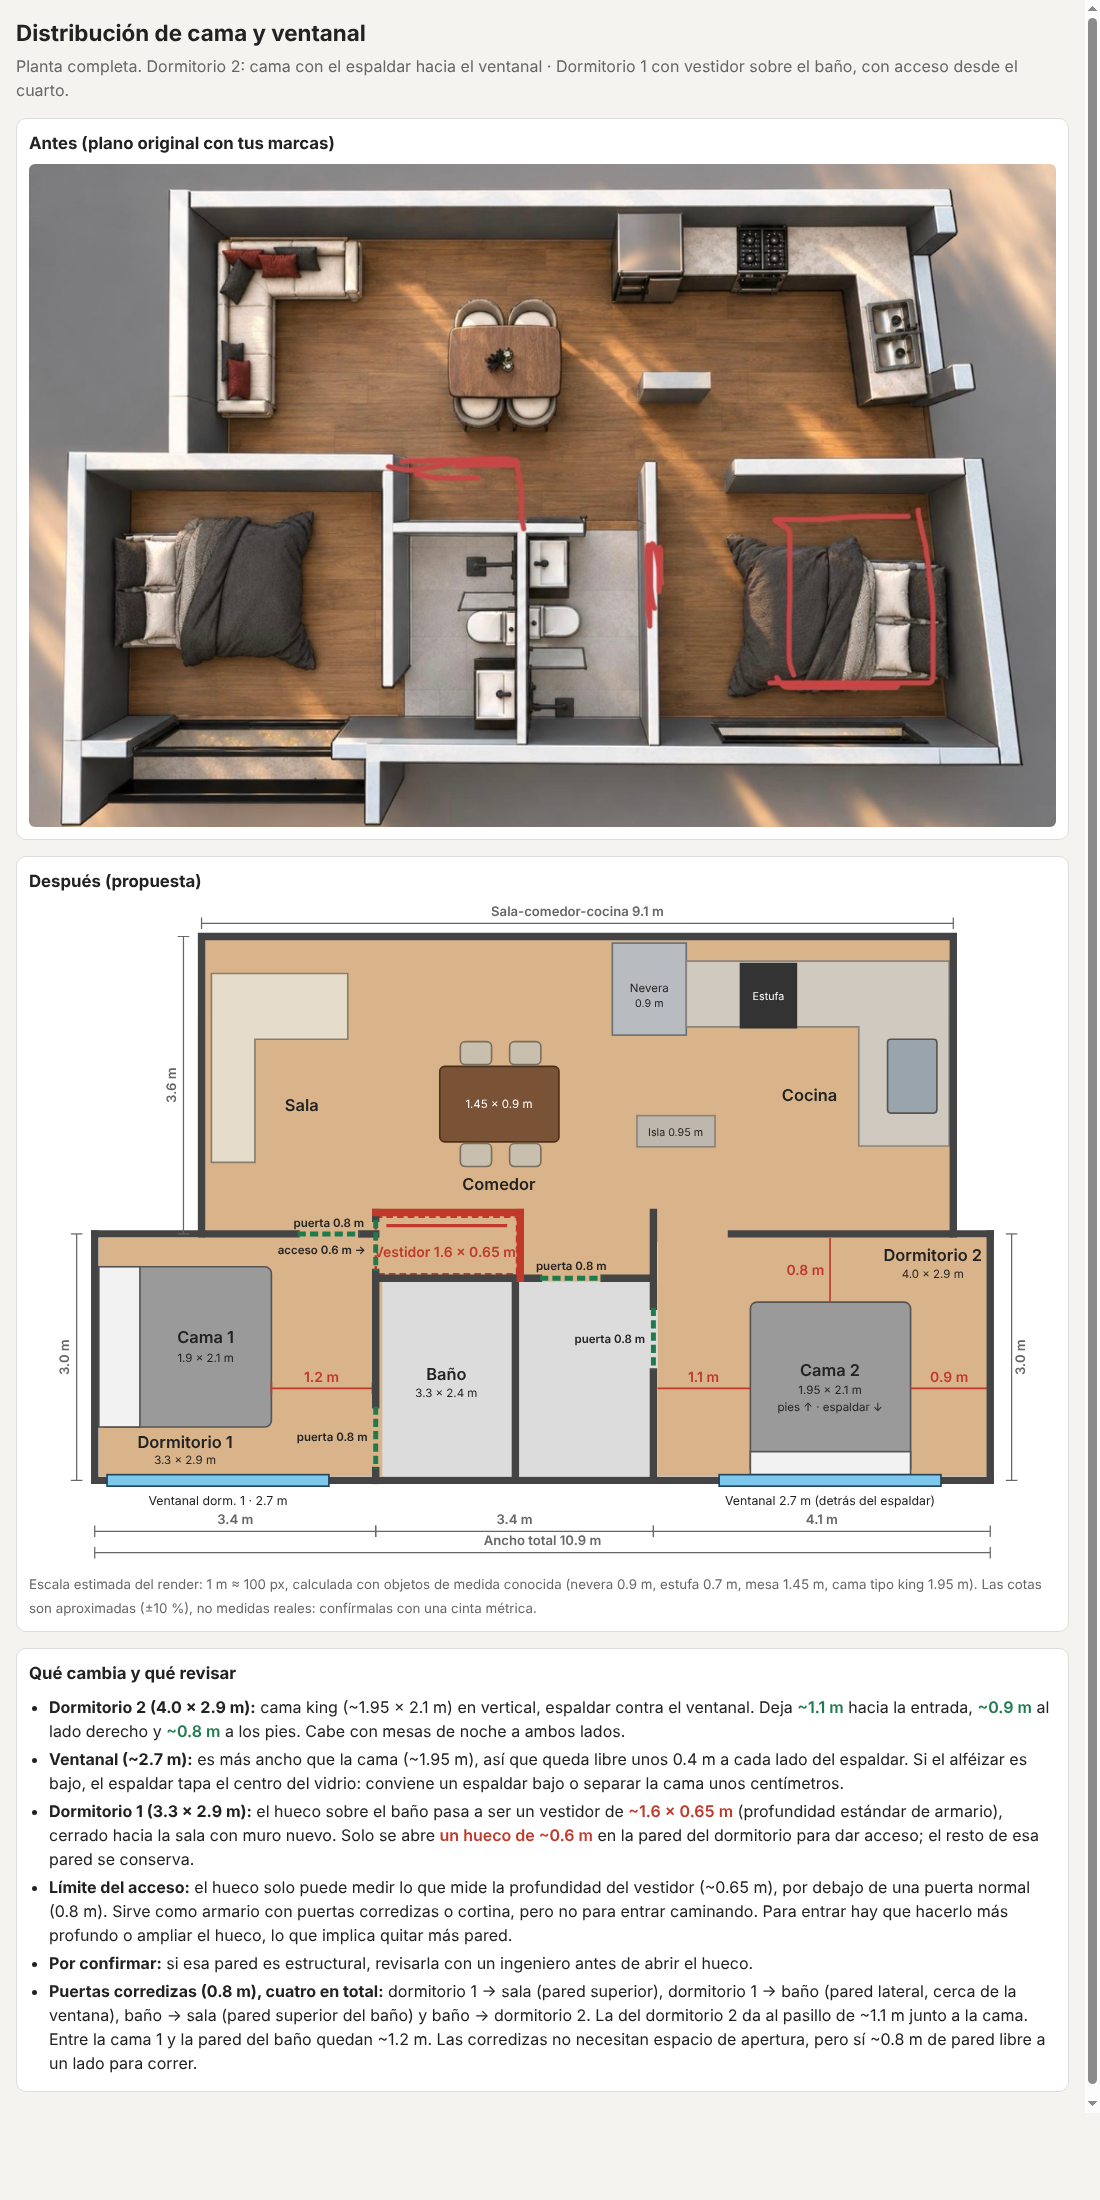
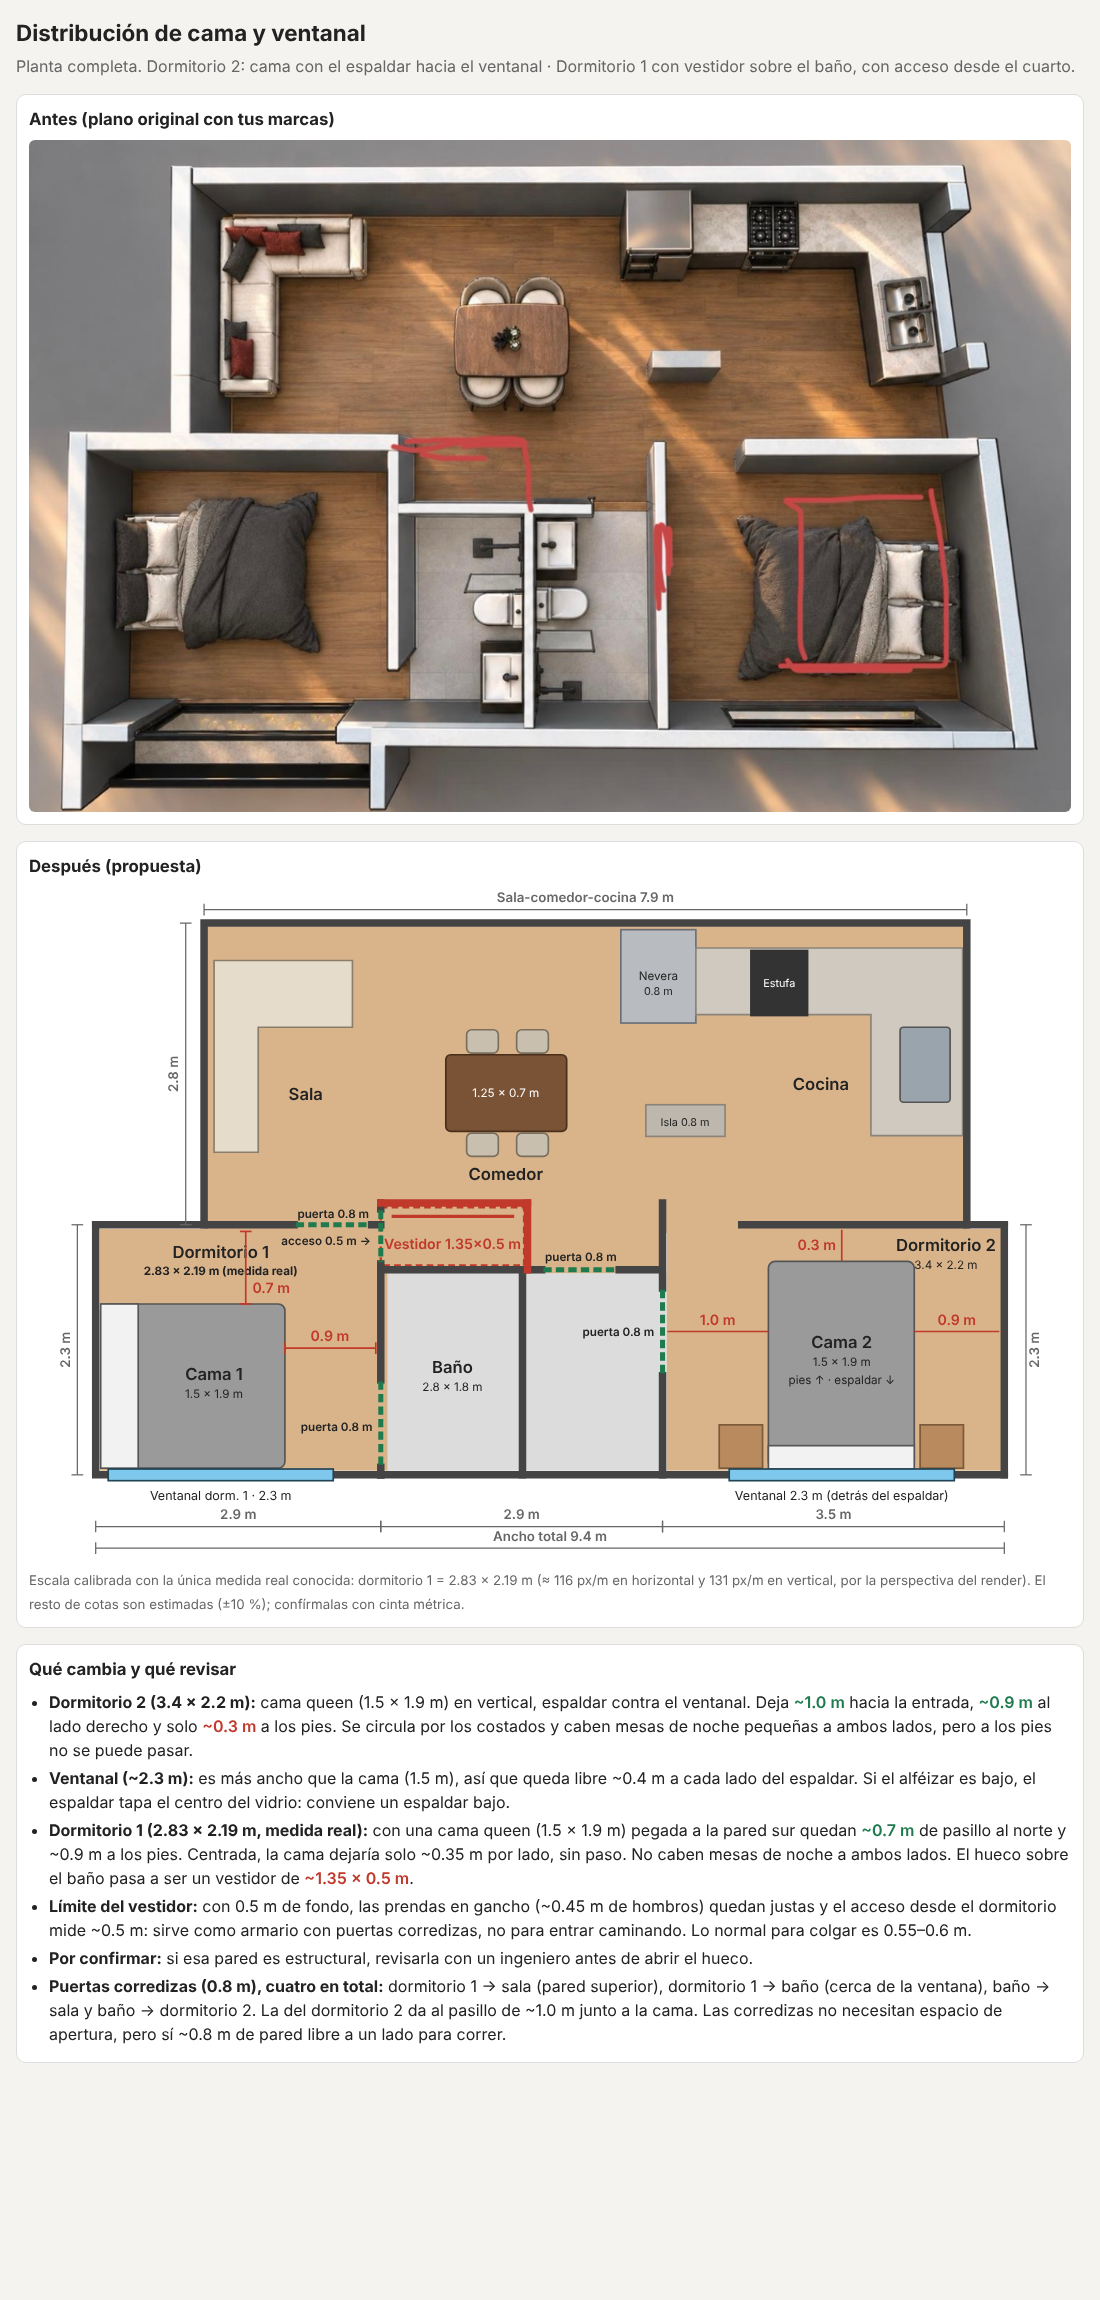
Recalibrar el esquema con la medida real del dormitorio 1 (2.83 x 2.19 m)
Claude-Session: https://claude.ai/code/session_01FjBeNf4WjH2KP9gBJAno4x

diff --git a/index.html b/index.html
@@ -51,7 +51,7 @@
 
   <section class="card">
     <h2>Después (propuesta)</h2>
-    <svg viewBox="40 8 1250 815" role="img" aria-label="Planta completa con la propuesta de distribución">
+    <svg viewBox="40 8 1250 815" role="img" aria-label="Planta completa con la propuesta de distribución a la escala real del dormitorio 1">
       <!-- Pisos -->
       <rect x="252" y="54" width="913" height="368" fill="var(--floor)"/>
       <rect x="462" y="410" width="338" height="64" fill="var(--floor)"/>
@@ -64,7 +64,7 @@
       <text x="372" y="262" text-anchor="middle" class="lbl">Sala</text>
       <!-- Comedor -->
       <rect x="540" y="208" width="145" height="92" rx="6" fill="#7a5236" stroke="#4a2f1a" stroke-width="2"/>
-      <text x="612" y="259" text-anchor="middle" font-size="14" style="fill:#fff">1.45 × 0.9 m</text>
+      <text x="612" y="259" text-anchor="middle" font-size="14" style="fill:#fff">1.25 × 0.7 m</text>
       <rect x="565" y="178" width="38" height="28" rx="6" fill="#c9bfae" stroke="#7a6f5e" stroke-width="2"/>
       <rect x="625" y="178" width="38" height="28" rx="6" fill="#c9bfae" stroke="#7a6f5e" stroke-width="2"/>
       <rect x="565" y="302" width="38" height="28" rx="6" fill="#c9bfae" stroke="#7a6f5e" stroke-width="2"/>
@@ -73,62 +73,69 @@
       <!-- Cocina -->
       <rect x="750" y="58" width="90" height="112" fill="#b8bcc0" stroke="#6b7076" stroke-width="2"/>
       <text x="795" y="118" text-anchor="middle" font-size="14">Nevera</text>
-      <text x="795" y="136" text-anchor="middle" font-size="13">0.9 m</text>
+      <text x="795" y="136" text-anchor="middle" font-size="13">0.8 m</text>
       <path d="M840 80 H1160 V305 H1050 V160 H840 Z" fill="#cfc9bf" stroke="#8a847a" stroke-width="2"/>
       <rect x="905" y="82" width="70" height="80" fill="#333"/>
       <text x="940" y="127" text-anchor="middle" font-size="13" style="fill:#fff">Estufa</text>
       <rect x="1085" y="175" width="60" height="90" rx="4" fill="#9aa4ad" stroke="#555" stroke-width="2"/>
       <rect x="780" y="268" width="95" height="38" fill="#bdb7ad" stroke="#8a847a" stroke-width="2"/>
-      <text x="827" y="293" text-anchor="middle" font-size="13">Isla 0.95 m</text>
+      <text x="827" y="293" text-anchor="middle" font-size="13">Isla 0.8 m</text>
       <text x="990" y="250" text-anchor="middle" class="lbl">Cocina</text>
 
-      <!-- Dormitorio 1 -->
+      <!-- Vestidor -->
       <rect x="462" y="391" width="172" height="70" fill="var(--floor)"/>
       <rect x="462" y="391" width="172" height="70" fill="none" stroke="var(--new)" stroke-width="3" stroke-dasharray="8 5"/>
       <line x1="475" y1="402" x2="622" y2="402" stroke="var(--new)" stroke-width="4"/>
-      <text x="546" y="440" text-anchor="middle" class="dimt" font-size="12">Vestidor 1.6 × 0.65 m</text>
-      <rect x="125" y="452" width="210" height="195" rx="8" fill="#9a9a9a" stroke="#555" stroke-width="2"/>
-      <rect x="125" y="452" width="50" height="195" fill="#f2f2f2" stroke="#555" stroke-width="2"/>
-      <text x="255" y="545" text-anchor="middle" class="lbl">Cama 1</text>
-      <text x="255" y="568" text-anchor="middle" font-size="14">1.9 × 2.1 m</text>
-      <text x="230" y="672" text-anchor="middle" class="lbl">Dormitorio 1</text>
-      <text x="230" y="692" text-anchor="middle" font-size="14">3.3 × 2.9 m</text>
-      <line x1="335" y1="600" x2="458" y2="600" class="dim"/>
-      <line x1="335" y1="593" x2="335" y2="607" class="dim"/><line x1="458" y1="593" x2="458" y2="607" class="dim"/>
-      <text x="396" y="592" text-anchor="middle" class="dimt" font-size="15">1.2 m</text>
+      <text x="548" y="441" text-anchor="middle" class="dimt" font-size="11">Vestidor 1.35×0.5 m</text>
+
+      <!-- Dormitorio 1 (medida real 2.83 × 2.19 m): cama queen contra la pared sur -->
+      <rect x="126" y="507" width="221" height="197" rx="8" fill="#9a9a9a" stroke="#555" stroke-width="2"/>
+      <rect x="126" y="507" width="45" height="197" fill="#f2f2f2" stroke="#555" stroke-width="2"/>
+      <text x="262" y="598" text-anchor="middle" class="lbl">Cama 1</text>
+      <text x="262" y="620" text-anchor="middle" font-size="14">1.5 × 1.9 m</text>
+      <text x="270" y="452" text-anchor="middle" class="lbl">Dormitorio 1</text>
+      <text x="270" y="472" text-anchor="middle" font-size="14" font-weight="700">2.83 × 2.19 m (medida real)</text>
+      <line x1="300" y1="420" x2="300" y2="507" class="dim"/>
+      <line x1="293" y1="420" x2="307" y2="420" class="dim"/><line x1="293" y1="507" x2="307" y2="507" class="dim"/>
+      <text x="308" y="494" class="dimt" font-size="15">0.7 m</text>
+      <line x1="347" y1="560" x2="456" y2="560" class="dim"/>
+      <line x1="347" y1="553" x2="347" y2="567" class="dim"/><line x1="456" y1="553" x2="456" y2="567" class="dim"/>
+      <text x="401" y="552" text-anchor="middle" class="dimt" font-size="15">0.9 m</text>
 
       <!-- Baño -->
       <text x="548" y="590" text-anchor="middle" class="lbl">Baño</text>
-      <text x="548" y="611" text-anchor="middle" font-size="14">3.3 × 2.4 m</text>
+      <text x="548" y="611" text-anchor="middle" font-size="14">2.8 × 1.8 m</text>
 
-      <!-- Dormitorio 2: cama girada, espaldar hacia el ventanal -->
-      <rect x="918" y="495" width="195" height="210" rx="8" fill="#9a9a9a" stroke="#555" stroke-width="2"/>
-      <rect x="918" y="677" width="195" height="28" fill="#f2f2f2" stroke="#555" stroke-width="2"/>
-      <text x="1015" y="585" text-anchor="middle" class="lbl">Cama 2</text>
-      <text x="1015" y="607" text-anchor="middle" font-size="14">1.95 × 2.1 m</text>
-      <text x="1015" y="628" text-anchor="middle" font-size="14">pies ↑ · espaldar ↓</text>
-      <text x="1140" y="445" text-anchor="middle" class="lbl">Dormitorio 2</text>
-      <text x="1140" y="466" text-anchor="middle" font-size="14">4.0 × 2.9 m</text>
-      <line x1="805" y1="600" x2="918" y2="600" class="dim"/><line x1="1113" y1="600" x2="1207" y2="600" class="dim"/>
-      <text x="861" y="592" text-anchor="middle" class="dimt">1.1 m</text>
-      <text x="1160" y="592" text-anchor="middle" class="dimt">0.9 m</text>
-      <line x1="1015" y1="417" x2="1015" y2="495" class="dim"/>
-      <text x="1008" y="462" text-anchor="end" class="dimt" font-size="15">0.8 m</text>
+      <!-- Dormitorio 2: cama queen girada, espaldar hacia el ventanal -->
+      <rect x="868" y="652" width="52" height="52" fill="#b98a5e" stroke="#7a5a3a" stroke-width="2"/>
+      <rect x="1109" y="652" width="52" height="52" fill="#b98a5e" stroke="#7a5a3a" stroke-width="2"/>
+      <rect x="927" y="456" width="175" height="249" rx="8" fill="#9a9a9a" stroke="#555" stroke-width="2"/>
+      <rect x="927" y="677" width="175" height="28" fill="#f2f2f2" stroke="#555" stroke-width="2"/>
+      <text x="1015" y="560" text-anchor="middle" class="lbl">Cama 2</text>
+      <text x="1015" y="582" text-anchor="middle" font-size="14">1.5 × 1.9 m</text>
+      <text x="1015" y="603" text-anchor="middle" font-size="14">pies ↑ · espaldar ↓</text>
+      <text x="1140" y="444" text-anchor="middle" class="lbl">Dormitorio 2</text>
+      <text x="1140" y="465" text-anchor="middle" font-size="14">3.4 × 2.2 m</text>
+      <line x1="806" y1="540" x2="927" y2="540" class="dim"/><line x1="1102" y1="540" x2="1204" y2="540" class="dim"/>
+      <text x="866" y="532" text-anchor="middle" class="dimt">1.0 m</text>
+      <text x="1153" y="532" text-anchor="middle" class="dimt">0.9 m</text>
+      <line x1="1015" y1="418" x2="1015" y2="456" class="dim"/>
+      <text x="1008" y="442" text-anchor="end" class="dimt" font-size="15">0.3 m</text>
 
       <!-- Paredes -->
       <g class="wall">
         <polyline points="250,412 250,50 1165,50 1165,412"/>
         <polyline points="120,412 120,712 462,712"/>
-        <line x1="120" y1="412" x2="365" y2="412"/>
-        <line x1="445" y1="412" x2="462" y2="412"/>
+        <line x1="120" y1="412" x2="358" y2="412"/>
+        <line x1="451" y1="412" x2="462" y2="412"/>
         <line x1="462" y1="386" x2="462" y2="393"/>
-        <line x1="462" y1="459" x2="462" y2="620"/>
-        <line x1="462" y1="700" x2="462" y2="712"/>
-        <line x1="462" y1="466" x2="660" y2="466"/>
-        <line x1="740" y1="466" x2="795" y2="466"/>
+        <line x1="462" y1="459" x2="462" y2="598"/>
+        <line x1="462" y1="703" x2="462" y2="712"/>
+        <line x1="462" y1="466" x2="655" y2="466"/>
+        <line x1="748" y1="466" x2="795" y2="466"/>
         <line x1="632" y1="466" x2="632" y2="712"/>
-        <line x1="800" y1="386" x2="800" y2="500"/>
-        <line x1="800" y1="580" x2="800" y2="712"/>
+        <line x1="800" y1="386" x2="800" y2="488"/>
+        <line x1="800" y1="593" x2="800" y2="712"/>
         <line x1="462" y1="712" x2="1210" y2="712"/>
         <line x1="1210" y1="412" x2="1210" y2="712"/>
         <line x1="895" y1="412" x2="1210" y2="412"/>
@@ -138,52 +145,52 @@
         <line x1="638" y1="386" x2="638" y2="466"/>
       </g>
 
-      <!-- Ventanales (2.7 m) -->
+      <!-- Ventanales (2.3 m) -->
       <rect x="880" y="705" width="270" height="14" fill="#7ec8ee" stroke="#245" stroke-width="2"/>
-      <text x="1015" y="742" text-anchor="middle" font-size="15">Ventanal 2.7 m (detrás del espaldar)</text>
+      <text x="1015" y="742" text-anchor="middle" font-size="15">Ventanal 2.3 m (detrás del espaldar)</text>
       <rect x="135" y="705" width="270" height="14" fill="#7ec8ee" stroke="#245" stroke-width="2"/>
-      <text x="270" y="742" text-anchor="middle" font-size="15">Ventanal dorm. 1 · 2.7 m</text>
+      <text x="270" y="742" text-anchor="middle" font-size="15">Ventanal dorm. 1 · 2.3 m</text>
 
-      <!-- Puertas corredizas (0.8 m) -->
+      <!-- Puertas corredizas (0.8 m reales) -->
       <g stroke="var(--ok)" stroke-width="6" stroke-dasharray="10 5">
-        <line x1="367" y1="412" x2="443" y2="412"/>
-        <line x1="662" y1="466" x2="738" y2="466"/>
-        <line x1="462" y1="622" x2="462" y2="698"/>
-        <line x1="800" y1="502" x2="800" y2="578"/>
+        <line x1="360" y1="412" x2="449" y2="412"/>
+        <line x1="657" y1="466" x2="746" y2="466"/>
+        <line x1="462" y1="600" x2="462" y2="701"/>
+        <line x1="800" y1="490" x2="800" y2="591"/>
         <line x1="462" y1="395" x2="462" y2="457"/>
       </g>
       <g font-size="14" font-weight="600" style="fill:var(--ok)">
         <text x="405" y="404" text-anchor="middle">puerta 0.8 m</text>
-        <text x="700" y="456" text-anchor="middle">puerta 0.8 m</text>
-        <text x="452" y="664" text-anchor="end">puerta 0.8 m</text>
+        <text x="702" y="456" text-anchor="middle">puerta 0.8 m</text>
+        <text x="452" y="660" text-anchor="end">puerta 0.8 m</text>
         <text x="790" y="545" text-anchor="end">puerta 0.8 m</text>
-        <text x="450" y="436" text-anchor="end">acceso 0.6 m →</text>
+        <text x="450" y="436" text-anchor="end">acceso 0.5 m →</text>
       </g>
 
       <!-- Cotas generales -->
       <g>
-      <line x1="250" y1="34" x2="1165" y2="34" class="dm"/><line x1="250" y1="27" x2="250" y2="41" class="dm"/><line x1="1165" y1="27" x2="1165" y2="41" class="dm"/><text x="707.5" y="25" text-anchor="middle" class="dmt">Sala-comedor-cocina 9.1 m</text>
-      <line x1="228" y1="50" x2="228" y2="412" class="dm"/><line x1="221" y1="50" x2="235" y2="50" class="dm"/><line x1="221" y1="412" x2="235" y2="412" class="dm"/><text transform="translate(219,231.0) rotate(-90)" text-anchor="middle" class="dmt">3.6 m</text>
-      <line x1="98" y1="412" x2="98" y2="712" class="dm"/><line x1="91" y1="412" x2="105" y2="412" class="dm"/><line x1="91" y1="712" x2="105" y2="712" class="dm"/><text transform="translate(89,562.0) rotate(-90)" text-anchor="middle" class="dmt">3.0 m</text>
-      <line x1="1236" y1="412" x2="1236" y2="712" class="dm"/><line x1="1229" y1="412" x2="1243" y2="412" class="dm"/><line x1="1229" y1="712" x2="1243" y2="712" class="dm"/><text transform="translate(1252,562.0) rotate(-90)" text-anchor="middle" class="dmt">3.0 m</text>
-      <line x1="120" y1="774" x2="462" y2="774" class="dm"/><line x1="120" y1="767" x2="120" y2="781" class="dm"/><line x1="462" y1="767" x2="462" y2="781" class="dm"/><text x="291.0" y="765" text-anchor="middle" class="dmt">3.4 m</text>
-      <line x1="462" y1="774" x2="800" y2="774" class="dm"/><line x1="462" y1="767" x2="462" y2="781" class="dm"/><line x1="800" y1="767" x2="800" y2="781" class="dm"/><text x="631.0" y="765" text-anchor="middle" class="dmt">3.4 m</text>
-      <line x1="800" y1="774" x2="1210" y2="774" class="dm"/><line x1="800" y1="767" x2="800" y2="781" class="dm"/><line x1="1210" y1="767" x2="1210" y2="781" class="dm"/><text x="1005.0" y="765" text-anchor="middle" class="dmt">4.1 m</text>
-      <line x1="120" y1="800" x2="1210" y2="800" class="dm"/><line x1="120" y1="793" x2="120" y2="807" class="dm"/><line x1="1210" y1="793" x2="1210" y2="807" class="dm"/><text x="665.0" y="791" text-anchor="middle" class="dmt">Ancho total 10.9 m</text>
+      <line x1="250" y1="34" x2="1165" y2="34" class="dm"/><line x1="250" y1="27" x2="250" y2="41" class="dm"/><line x1="1165" y1="27" x2="1165" y2="41" class="dm"/><text x="707.5" y="25" text-anchor="middle" class="dmt">Sala-comedor-cocina 7.9 m</text>
+      <line x1="228" y1="50" x2="228" y2="412" class="dm"/><line x1="221" y1="50" x2="235" y2="50" class="dm"/><line x1="221" y1="412" x2="235" y2="412" class="dm"/><text transform="translate(219,231.0) rotate(-90)" text-anchor="middle" class="dmt">2.8 m</text>
+      <line x1="98" y1="412" x2="98" y2="712" class="dm"/><line x1="91" y1="412" x2="105" y2="412" class="dm"/><line x1="91" y1="712" x2="105" y2="712" class="dm"/><text transform="translate(89,562.0) rotate(-90)" text-anchor="middle" class="dmt">2.3 m</text>
+      <line x1="1236" y1="412" x2="1236" y2="712" class="dm"/><line x1="1229" y1="412" x2="1243" y2="412" class="dm"/><line x1="1229" y1="712" x2="1243" y2="712" class="dm"/><text transform="translate(1252,562.0) rotate(-90)" text-anchor="middle" class="dmt">2.3 m</text>
+      <line x1="120" y1="774" x2="462" y2="774" class="dm"/><line x1="120" y1="767" x2="120" y2="781" class="dm"/><line x1="462" y1="767" x2="462" y2="781" class="dm"/><text x="291.0" y="765" text-anchor="middle" class="dmt">2.9 m</text>
+      <line x1="462" y1="774" x2="800" y2="774" class="dm"/><line x1="462" y1="767" x2="462" y2="781" class="dm"/><line x1="800" y1="767" x2="800" y2="781" class="dm"/><text x="631.0" y="765" text-anchor="middle" class="dmt">2.9 m</text>
+      <line x1="800" y1="774" x2="1210" y2="774" class="dm"/><line x1="800" y1="767" x2="800" y2="781" class="dm"/><line x1="1210" y1="767" x2="1210" y2="781" class="dm"/><text x="1005.0" y="765" text-anchor="middle" class="dmt">3.5 m</text>
+      <line x1="120" y1="800" x2="1210" y2="800" class="dm"/><line x1="120" y1="793" x2="120" y2="807" class="dm"/><line x1="1210" y1="793" x2="1210" y2="807" class="dm"/><text x="665.0" y="791" text-anchor="middle" class="dmt">Ancho total 9.4 m</text>
       </g>
     </svg>
-    <small>Escala estimada del render: 1 m ≈ 100 px, calculada con objetos de medida conocida (nevera 0.9 m, estufa 0.7 m, mesa 1.45 m, cama tipo king 1.95 m). Las cotas son aproximadas (±10 %), no medidas reales: confírmalas con una cinta métrica.</small>
+    <small>Escala calibrada con la única medida real conocida: dormitorio 1 = 2.83 × 2.19 m (≈ 116 px/m en horizontal y 131 px/m en vertical, por la perspectiva del render). El resto de cotas son estimadas (±10 %); confírmalas con cinta métrica.</small>
   </section>
 
   <section class="card">
     <h2>Qué cambia y qué revisar</h2>
     <ul>
-      <li><b>Dormitorio 2 (4.0 × 2.9 m):</b> cama king (~1.95 × 2.1 m) en vertical, espaldar contra el ventanal. Deja <span class="ok">~1.1 m</span> hacia la entrada, <span class="ok">~0.9 m</span> al lado derecho y <span class="ok">~0.8 m</span> a los pies. Cabe con mesas de noche a ambos lados.</li>
-      <li><b>Ventanal (~2.7 m):</b> es más ancho que la cama (~1.95 m), así que queda libre unos 0.4 m a cada lado del espaldar. Si el alféizar es bajo, el espaldar tapa el centro del vidrio: conviene un espaldar bajo o separar la cama unos centímetros.</li>
-      <li><b>Dormitorio 1 (3.3 × 2.9 m):</b> el hueco sobre el baño pasa a ser un vestidor de <span class="tag">~1.6 × 0.65 m</span> (profundidad estándar de armario), cerrado hacia la sala con muro nuevo. Solo se abre <span class="tag">un hueco de ~0.6 m</span> en la pared del dormitorio para dar acceso; el resto de esa pared se conserva.</li>
-      <li><b>Límite del acceso:</b> el hueco solo puede medir lo que mide la profundidad del vestidor (~0.65 m), por debajo de una puerta normal (0.8 m). Sirve como armario con puertas corredizas o cortina, pero no para entrar caminando. Para entrar hay que hacerlo más profundo o ampliar el hueco, lo que implica quitar más pared.</li>
+      <li><b>Dormitorio 2 (3.4 × 2.2 m):</b> cama queen (1.5 × 1.9 m) en vertical, espaldar contra el ventanal. Deja <span class="ok">~1.0 m</span> hacia la entrada, <span class="ok">~0.9 m</span> al lado derecho y solo <span class="tag">~0.3 m</span> a los pies. Se circula por los costados y caben mesas de noche pequeñas a ambos lados, pero a los pies no se puede pasar.</li>
+      <li><b>Ventanal (~2.3 m):</b> es más ancho que la cama (1.5 m), así que queda libre ~0.4 m a cada lado del espaldar. Si el alféizar es bajo, el espaldar tapa el centro del vidrio: conviene un espaldar bajo.</li>
+      <li><b>Dormitorio 1 (2.83 × 2.19 m, medida real):</b> con una cama queen (1.5 × 1.9 m) pegada a la pared sur quedan <span class="ok">~0.7 m</span> de pasillo al norte y ~0.9 m a los pies. Centrada, la cama dejaría solo ~0.35 m por lado, sin paso. No caben mesas de noche a ambos lados. El hueco sobre el baño pasa a ser un vestidor de <span class="tag">~1.35 × 0.5 m</span>.</li>
+      <li><b>Límite del vestidor:</b> con 0.5 m de fondo, las prendas en gancho (~0.45 m de hombros) quedan justas y el acceso desde el dormitorio mide ~0.5 m: sirve como armario con puertas corredizas, no para entrar caminando. Lo normal para colgar es 0.55–0.6 m.</li>
       <li><b>Por confirmar:</b> si esa pared es estructural, revisarla con un ingeniero antes de abrir el hueco.</li>
-      <li><b>Puertas corredizas (0.8 m), cuatro en total:</b> dormitorio 1 → sala (pared superior), dormitorio 1 → baño (pared lateral, cerca de la ventana), baño → sala (pared superior del baño) y baño → dormitorio 2. La del dormitorio 2 da al pasillo de ~1.1 m junto a la cama. Entre la cama 1 y la pared del baño quedan ~1.2 m. Las corredizas no necesitan espacio de apertura, pero sí ~0.8 m de pared libre a un lado para correr.</li>
+      <li><b>Puertas corredizas (0.8 m), cuatro en total:</b> dormitorio 1 → sala (pared superior), dormitorio 1 → baño (cerca de la ventana), baño → sala y baño → dormitorio 2. La del dormitorio 2 da al pasillo de ~1.0 m junto a la cama. Las corredizas no necesitan espacio de apertura, pero sí ~0.8 m de pared libre a un lado para correr.</li>
     </ul>
   </section>
 </main>
